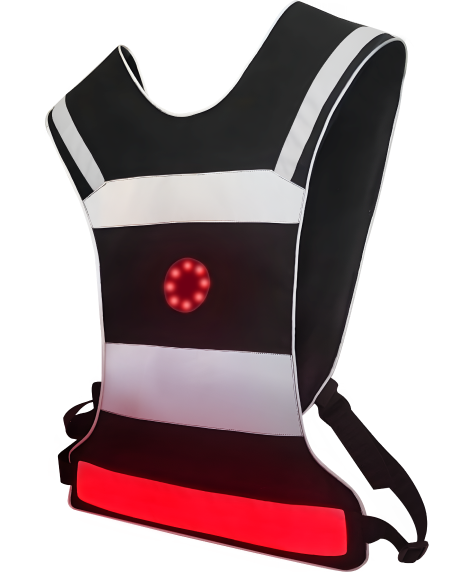
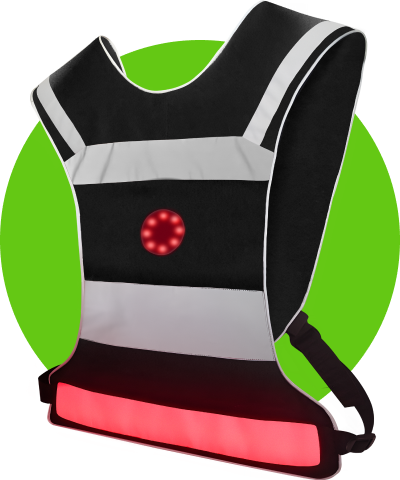
update website

diff --git a/src/pages/Landing/Landing.js b/src/pages/Landing/Landing.js
@@ -2,11 +2,13 @@ import React from 'react';
 import Palette from '../../theme/palette';
 
 import { LAUNCH_DATE } from '../../config/AppConfig';
-import jacketRedBack from '../../assets/images/jacket-red-back.png';
+import jacketHero from '../../assets/images/jacket-hero.png';
 import schoeller from '../../assets/images/partners/schoeller.png';
 import systronic from '../../assets/images/partners/systronic.png';
 import trailer from '../../assets/videos/trailer.mp4';
-import teaser from '../../assets/videos/teaser.mp4';
+import teaser16x9 from '../../assets/videos/teaser/16x9.mp4';
+import teaser1x1 from '../../assets/videos/teaser/1x1.mp4';
+import trailerThumbnail from '../../assets/images/trailer-thumbnail.png';
 import subtractShape from '../../assets/images/subtract.png';
 import smartJacket from '../../assets/images/smart-jacket.png';
 import controller from '../../assets/images/controller.png';
@@ -22,47 +24,91 @@ import IllustratedParagraph from '../../components/IllustratedParagraph/Illustra
 import SectionTitle from '../../components/SectionTitle/SectionTitle';
 import SpecsSection from '../../components/SpecsSection/SpecsSection';
 import Banner from '../../components/Banner/Banner';
-import NoisyContainer from '../../components/NoisyContainer/NoisyContainer';
 import IdCard from '../../components/IdCard/IdCard';
 import FAQSection from '../../components/FAQSection/FAQSection';
 import FormContact from '../../components/FormContact/FormContact';
 import Footer from '../../components/Footer/Footer';
+import NoisyContainer from '../../components/NoisyContainer/NoisyContainer';
 
 function Landing() {
   return (
-    <>
+    <Box overflow='hidden'>
       <Navbar />
       <HeroSection />
       <WhatIsSection />
       <SocialSection />
       <ContactSection />
       <Footer />
-    </>
+    </Box>
   );
 }
 
 function HeroSection() {
   const { STATE_GREY } = Palette();
 
-  const now = new Date().getTime();
-  const heroVideo = now >= LAUNCH_DATE.getTime() ? trailer : teaser;
-
   return (
     <Box
       sx={{
         position: 'relative',
         width: '100%',
+        backgroundColor: 'black',
       }}
     >
       <NoisyContainer>
+        <Box
+          sx={{
+            width: '100%',
+            marginBottom: '60px',
+            position: 'absolute',
+            left: '50%',
+            transform: 'translateX(-50%)',
+            paddingTop: { xs: '100px', sm: '60px', md: 0 },
+          }}
+        >
+          <Box
+            component='video'
+            src={teaser1x1}
+            sx={{
+              width: '100vw',
+              display: { xs: 'inline', sm: 'inline', md: 'none' },
+            }}
+            alt='teaser'
+            autoPlay
+            loop
+            muted
+            playsInline
+          />
+          <Box
+            component='video'
+            src={teaser16x9}
+            sx={{
+              width: '100vw',
+              display: { xs: 'none', sm: 'none', md: 'inline' },
+            }}
+            alt='teaser'
+            autoPlay
+            loop
+            muted
+            playsInline
+          />
+          <Box
+            sx={{
+              height: '100px',
+              width: '100%',
+              position: 'relative',
+              top: '-100px',
+              background: 'linear-gradient(0deg, black, transparent)',
+            }}
+          />
+        </Box>
         <Container
           sx={{
             display: 'flex',
             flexDirection: 'column',
             alignItems: 'center',
             pt: {
-              xs: '20vh',
-              sm: '22vh',
+              xs: '60vh',
+              sm: '80vh',
             },
           }}
         >
@@ -72,66 +118,51 @@ function HeroSection() {
               flexDirection: 'column',
               alignItems: 'center',
               textAlign: 'center',
+              zIndex: '20',
             }}
             maxWidth='770px'
           >
             <Typography variant='h1'>
-              Be seen{' '}
+              IGLOW : The Smart Bike Jacket -{' '}
               <Typography component='span' variant='h1' color='primary'>
-                stay safe
-              </Typography>{' '}
-              : Innovation in motion
+                Be Seen
+              </Typography>
+              {', '}
+              Be Safe
             </Typography>
             <EmptySpace under='h1' />
             <Typography variant='body1' color={STATE_GREY}>
-              Introducing the Smart Jacket : the smart, stylish, and secure
-              choice that enhances road safety like never before.
+              The world's first smart jacket – the ultimate fusion of style,
+              technology and Swiss quality.
             </Typography>
           </Box>
-          <Box
-            sx={{
-              width: '100vw',
+          <img
+            src={jacketHero}
+            style={{
+              width: '80vw',
+              maxWidth: '600px',
+              marginTop: '60px',
+              marginBottom: '60px',
               position: 'relative',
-              minWidth: '500px',
-              maxWidth: '700px',
-              px: '8%',
+              left: '30px',
             }}
-          >
-            <img
-              src={jacketRedBack}
-              style={{
-                width: '110%',
-                marginBottom: '60px',
-                position: 'absolute',
-                left: '50%',
-                top: '50%',
-                transform: 'translate(-50%, -50%)',
-              }}
-              alt='jacket'
-            />
-            <img
-              src={jacketRedBack}
-              style={{
-                width: '110%',
-                opacity: 0,
-              }}
-              alt='jacket'
-            />
-          </Box>
+            alt='jacket'
+          />
           <Countdown />
           <EmptySpace />
           <Typography variant='h2' sx={{ textAlign: 'center' }}>
             Lights, Cameras, Action !
           </Typography>
-          <Typography variant='h2' color='primary'>
+          <Typography variant='h2' color='primary' sx={{ textAlign: 'center' }}>
             Unveiling the IGLOW® Smart Jacket
           </Typography>
           <EmptySpace under='h2' />
           <video
             controls
             style={{ width: '100%', borderRadius: 30, zIndex: '2' }}
+            poster={trailerThumbnail}
           >
-            <source src={heroVideo} />
+            <source src={trailer} />
           </video>
         </Container>
       </NoisyContainer>
@@ -153,7 +184,7 @@ function WhatIsSection() {
   const { NIGHT, STATE_GREY } = Palette();
   return (
     <Box backgroundColor='white' color={NIGHT} overflow='hidden'>
-      <Container>
+      <Container sx={{ width: '100%' }}>
         <EmptySpace />
         <SectionTitle
           overtitle='WHAT IS IGLOW ?'
@@ -280,7 +311,7 @@ function SocialSection() {
             name='Jean-Baptiste'
             role='Videographer'
           />
-          <IdCard src='sam.png' name='Sam' role='Digital Media Spécialist' />
+          <IdCard src='sam.png' name='Sam' role='Digital Media Specialist' />
         </Box>
         <EmptySpace />
         {/* <SectionTitle

diff --git a/src/components/Footer/Footer.js b/src/components/Footer/Footer.js
@@ -38,7 +38,11 @@ function Footer() {
             color={STATE_GREY}
             sx={{
               display: 'flex',
-              flexDirection: 'row',
+              flexDirection: {
+                xs: 'column',
+                sm: 'column',
+                md: 'row',
+              },
               gap: 5,
             }}
           >
@@ -62,7 +66,15 @@ function Footer() {
           </Box>
           <Box
             color={STATE_GREY}
-            sx={{ display: 'flex', flexDirection: 'row', gap: 5 }}
+            sx={{
+              display: 'flex',
+              flexDirection: {
+                xs: 'column',
+                sm: 'column',
+                md: 'row',
+              },
+              gap: 5,
+            }}
           >
             <Avatar sx={{ backgroundColor: NIGHT }}>
               <FaInstagram

diff --git a/src/components/Navbar/Navbar.js b/src/components/Navbar/Navbar.js
@@ -66,10 +66,8 @@ function Navbar({ admin, coverPage }) {
       <AppBar
         elevation={0}
         sx={{
-          position: 'fixed',
-          background: 'rgba(0, 0, 0, 0.9)',
-          boxShadow: '0 4px 30px rgba(0, 0, 0, 0.1)',
-          backdropFilter: 'blur(20px)',
+          background: 'transparent',
+          position: 'absolute',
         }}
       >
         <Container

diff --git a/src/components/NoisyContainer/NoisyContainer.js b/src/components/NoisyContainer/NoisyContainer.js
@@ -4,10 +4,7 @@ import noisyFilter from '../../assets/images/noisy-filter.png';
 
 function NoisyContainer({ children, ...props }) {
   return (
-    <Box
-      sx={{ backgroundImage: `url(${noisyFilter})`, width: '100%' }}
-      {...props}
-    >
+    <Box sx={{ width: '100%' }} {...props}>
       {children}
     </Box>
   );

diff --git a/src/components/EmptySpace/EmptySpace.js b/src/components/EmptySpace/EmptySpace.js
@@ -7,7 +7,7 @@ function EmptySpace({ under, height }) {
         height: height
           ? { xs: height / 2, sm: height }
           : under === 'h1'
-          ? { xs: 24, sm: 68 }
+          ? { xs: 24, sm: 42 }
           : under === 'h2'
           ? { xs: 24, sm: 68 }
           : under === 'h4'

diff --git a/src/components/NewsletterSub/NewsletterSub.js b/src/components/NewsletterSub/NewsletterSub.js
@@ -179,6 +179,7 @@ function NewsletterSub() {
           component={HashLink}
           to='/privacy-policy#start'
           variant='body2'
+          fontSize='min(3vw, 20px)'
           color='primary'
         >
           the privacy policy
